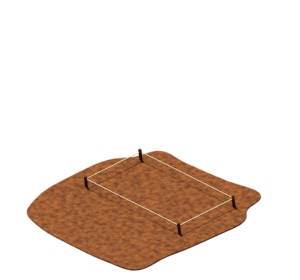
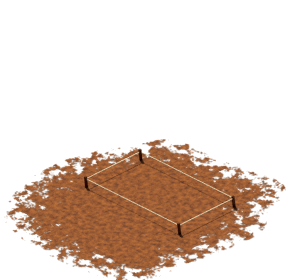
Trodden earth fades into the grass instead of ending in a hard edge
The building pad is now a solid core with a fringe whose alpha comes
from a per-vertex edge attribute broken up by blotch and grain noise, so
the earth frays into the game's grass in clumps, as in Settlers 4.

diff --git a/art/blender/lib.py b/art/blender/lib.py
@@ -434,9 +434,11 @@ def _finish(obj, mat, bevel=0.0, smooth=False):
     return obj
 
 
-def pad(loc, hx, hy, mat, verts=96, jitter=0.12, seed=1, thickness=0.012, power=4.0):
-    """A flat, ragged, squarish patch on the ground (half sizes `hx`, `hy`): the trodden earth around
-    buildings. A superellipse with a jittered edge."""
+def pad(loc, hx, hy, mat, verts=96, jitter=0.12, seed=1, core=0.7, reach=1.3, grain=38.0):
+    """A ragged, squarish patch of trodden earth (half sizes `hx`, `hy`; a superellipse with a wobbly
+    edge) that fades into the grass the way Settlers 4 ground does: solid inside `core`, then the
+    earth breaks up in a grainy, noisy fringe out to `reach` (alpha in the sprite, so the game's grass
+    shows through). The material gets the alpha; it must be the pad's own."""
     import random
 
     rnd = random.Random(seed)
@@ -444,22 +446,64 @@ def pad(loc, hx, hy, mat, verts=96, jitter=0.12, seed=1, thickness=0.012, power=
     # A smooth wobble (a few low-frequency waves), not per-vertex noise.
     waves = [(rnd.randint(2, 7), rnd.uniform(0, math.tau), rnd.uniform(0.3, 1.0)) for _ in range(4)]
     norm = sum(w[2] for w in waves)
-    pts = []
-    for i in range(verts):
-        a = i / verts * math.tau
-        c, s_ = math.cos(a), math.sin(a)
-        k = 1 + jitter * sum(amp * math.sin(f * a + ph) for f, ph, amp in waves) / norm
-        x = math.copysign(abs(c) ** (2 / power), c) * hx * k
-        y = math.copysign(abs(s_) ** (2 / power), s_) * hy * k
-        pts.append((cx + x, cy + y, cz))
+
+    def ring(scale):
+        pts = []
+        for i in range(verts):
+            a = i / verts * math.tau
+            c, s_ = math.cos(a), math.sin(a)
+            k = scale * (1 + jitter * sum(amp * math.sin(f * a + ph) for f, ph, amp in waves) / norm)
+            x = math.copysign(abs(c) ** 0.7, c) * hx * k
+            y = math.copysign(abs(s_) ** 0.7, s_) * hy * k
+            pts.append((cx + x, cy + y, cz + 0.003))
+        return pts
+
+    inner, outer = ring(core), ring(reach)
+    vs = [(cx, cy, cz + 0.003)] + inner + outer
+    faces = [(0, 1 + i, 1 + (i + 1) % verts) for i in range(verts)]
+    faces += [(1 + i, 1 + verts + i, 1 + verts + (i + 1) % verts, 1 + (i + 1) % verts) for i in range(verts)]
     mesh = bpy.data.meshes.new('pad')
-    mesh.from_pydata([(cx, cy, cz)] + pts, [], [(0, i + 1, (i + 1) % verts + 1) for i in range(verts)])
+    mesh.from_pydata(vs, [], faces)
+    edge = mesh.attributes.new('edge', 'FLOAT', 'POINT')
+    edge.data.foreach_set('value', [1.0] * (1 + verts) + [0.0] * verts)
     obj = bpy.data.objects.new('pad', mesh)
     bpy.context.scene.collection.objects.link(obj)
     obj.data.materials.append(mat)
-    mod = obj.modifiers.new('Solid', 'SOLIDIFY')
-    mod.thickness = thickness
-    mod.offset = 1
+    # Alpha: the radial fade, broken up by fine noise so the border is grainy, not a line.
+    nodes, links = mat.node_tree.nodes, mat.node_tree.links
+    bsdf = nodes['Principled BSDF']
+    attr = nodes.new('ShaderNodeAttribute')
+    attr.attribute_name = 'edge'
+    coord = nodes.new('ShaderNodeTexCoord')
+    noise = nodes.new('ShaderNodeTexNoise')
+    noise.inputs['Scale'].default_value = grain
+    noise.inputs['Detail'].default_value = 6
+    links.new(coord.outputs['Object'], noise.inputs['Vector'])
+    blotch = nodes.new('ShaderNodeTexNoise')
+    blotch.inputs['Scale'].default_value = grain / 5
+    blotch.inputs['Detail'].default_value = 4
+    links.new(coord.outputs['Object'], blotch.inputs['Vector'])
+    # v = edge + blotches (±0.55) + grain (±0.3): the threshold wanders in and out as clumps.
+    def spread(sock, half):
+        r = nodes.new('ShaderNodeMapRange')
+        r.inputs['From Min'].default_value = 0.3
+        r.inputs['From Max'].default_value = 0.7
+        r.inputs['To Min'].default_value = -half
+        r.inputs['To Max'].default_value = half
+        links.new(sock, r.inputs['Value'])
+        return r.outputs['Result']
+
+    add1 = nodes.new('ShaderNodeMath')
+    links.new(attr.outputs['Fac'], add1.inputs[0])
+    links.new(spread(blotch.outputs['Fac'], 0.55), add1.inputs[1])
+    add2 = nodes.new('ShaderNodeMath')
+    links.new(add1.outputs['Value'], add2.inputs[0])
+    links.new(spread(noise.outputs['Fac'], 0.3), add2.inputs[1])
+    alpha = nodes.new('ShaderNodeMapRange')
+    alpha.inputs['From Min'].default_value = 0.22
+    alpha.inputs['From Max'].default_value = 0.36
+    links.new(add2.outputs['Value'], alpha.inputs['Value'])
+    links.new(alpha.outputs['Result'], bsdf.inputs['Alpha'])
     return obj
 
 

diff --git a/CLAUDE.md b/CLAUDE.md
@@ -84,7 +84,7 @@ Three layers with one-way dependencies: `ui → render → sim`, plus `src/audio
 - **Culling by chunk** (`CHUNK` = 16 tiles): ground, territory overlay and static objects (trees, rocks, deposits, buildings) are registered per chunk via `addStatic`/`removeStatic` and sit in the scene only while their chunk intersects the camera's `viewRect`; settlers join `objects` only while on screen. Per-frame sorting and drawing therefore follow the screen, not the map. New world objects must go through `addStatic` rather than `objects.addChild`.
 - **Lazy chunks** (what makes 512×512 start fast): `buildGround` only records heights; a chunk's ground mesh, boulders and territory are built by `ensureChunk` the first time it becomes visible (`chunkReady`), at most `CHUNK_BUILDS_PER_FRAME` per frame so a zoom-out never hitches. Tile objects (trees, deposits, fields) are synced only for visible chunks — `syncChangedTiles` leaves a hidden chunk's version stale and catches up when it scrolls in; territory for unbuilt chunks is deferred via `territoryPending`. Anything per-chunk you add must be built in `ensureChunk` and tolerate a chunk that was never built.
 - All art is procedural: painters in `sprites.ts` draw with Canvas 2D, and `SpriteAtlas` (`atlas.ts`) packs them into 2× resolution canvas pages (a new page starts when one fills; the last page is cut to the rows it uses) with `defaultAnchor` set per frame. Most buildings are described by a `Style` in `STYLES` (walls, roof, floors, decorations like chimney/well/pen) painted by `paintStyled`; only special shapes (castle, mill, tower…) have hand-written painters. Fields are flat decals added to their chunk's ground container. Building painters draw around the **footprint center as origin** and use the `P(dx, dy, z)` helper (tile-unit offsets plus pixel height); their canvas size and anchor live in `BUILDING_CANVAS`. Construction progress is shown by cropping the building texture from the top (`bottomPart`). To add a sprite, write a painter and register it in the `SpriteAtlas` constructor.
-- **3D sprite pilot** (`?art=3d`): `art/blender/build.py` (helpers in `lib.py`) builds models with bpy and renders them with an orthographic camera matching `iso.ts` (rot 60°/0/45°, world X = tile x, world Y = −tile y, `PX_PER_UNIT` logical px per tile unit, 2× resolution, Cycles, shadow catcher on a transparent background, palette written in sRGB and converted by `lib.lin`) into `public/art/3d`; run `npm run art:render [-- names]` (Blender 5.x on PATH). Each sprite keeps the size/anchor convention of the procedural sprite it replaces (`ART3D_SPRITES` in `art3d.ts` must match `SINGLE` in `build.py`). `main.ts` loads them (`loadArt3d`) and `SpriteAtlas` re-registers them under the procedural keys (`building:woodcutter`, `tree:*`, `deposit:*`, `ware:log`); the carrier is a sheet `c3d:<dir>:<column>` in `DIRS` order (no mirroring; walk frames, stand, then the same carrying) with `carryAt`/`carryBehind` from `carrier.json`, used by `syncSettlers` instead of the layered figure. Read hand positions from the evaluated depsgraph (`hand_point`), and call `view_layer.update()` before parenting parts to pivots, or offsets double. The look follows Settlers 4 (reference: in-game shots at settlers4-hd.com, kept out of the repo): `mat_stones` (Voronoi fieldstone), `mat_tiles` (terracotta), `mat_grain` (wood, thatch, bark, earth), `mat_leaves`, `apply_ao` (base colour × AO in every material) and `clean_alpha` post-processing (saturation, contrast, unsharp); buildings stand on a trodden-earth `pad`; `transform_apply` must keep location (`location=False`), or origins jump to the world origin. **Ground textures** (`art/textures/ground.py`, `npm run art:ground`, runs in Blender for numpy): a texture periodic over `PERIOD`×`PERIOD` tiles, sliced into diamonds exactly as `quadOf` samples them; the atlas registers them as `ground:<kind>:<v>` (`groundPeriod`), the renderer picks variant (x mod p) + p·(y mod p) so tiles join seamlessly, and transition overlays keep the procedural ragged mask filled with the texture.
+- **3D sprite pilot** (`?art=3d`): `art/blender/build.py` (helpers in `lib.py`) builds models with bpy and renders them with an orthographic camera matching `iso.ts` (rot 60°/0/45°, world X = tile x, world Y = −tile y, `PX_PER_UNIT` logical px per tile unit, 2× resolution, Cycles, shadow catcher on a transparent background, palette written in sRGB and converted by `lib.lin`) into `public/art/3d`; run `npm run art:render [-- names]` (Blender 5.x on PATH). Each sprite keeps the size/anchor convention of the procedural sprite it replaces (`ART3D_SPRITES` in `art3d.ts` must match `SINGLE` in `build.py`). `main.ts` loads them (`loadArt3d`) and `SpriteAtlas` re-registers them under the procedural keys (`building:woodcutter`, `tree:*`, `deposit:*`, `ware:log`); the carrier is a sheet `c3d:<dir>:<column>` in `DIRS` order (no mirroring; walk frames, stand, then the same carrying) with `carryAt`/`carryBehind` from `carrier.json`, used by `syncSettlers` instead of the layered figure. Read hand positions from the evaluated depsgraph (`hand_point`), and call `view_layer.update()` before parenting parts to pivots, or offsets double. The look follows Settlers 4 (reference: in-game shots at settlers4-hd.com, kept out of the repo): `mat_stones` (Voronoi fieldstone), `mat_tiles` (terracotta), `mat_grain` (wood, thatch, bark, earth), `mat_leaves`, `apply_ao` (base colour × AO in every material) and `clean_alpha` post-processing (saturation, contrast, unsharp); buildings stand on a trodden-earth `pad` (solid core, then a noisy alpha fringe from a per-vertex `edge` attribute plus two noises, so the earth breaks up into the game's grass instead of ending in a line); `transform_apply` must keep location (`location=False`), or origins jump to the world origin. **Ground textures** (`art/textures/ground.py`, `npm run art:ground`, runs in Blender for numpy): a texture periodic over `PERIOD`×`PERIOD` tiles, sliced into diamonds exactly as `quadOf` samples them; the atlas registers them as `ground:<kind>:<v>` (`groundPeriod`), the renderer picks variant (x mod p) + p·(y mod p) so tiles join seamlessly, and transition overlays keep the procedural ragged mask filled with the texture.
 - Player colours live in `PLAYER_COLORS` (`sprites.ts`); the only per-player atlas variants are `flag:<player>` (fighters wear their owner's colour as a tint, see below). A fighter's level is drawn as a `chevrons:<level>` sprite above the head, and arrows (`World.shots`) as arcs in the `shots` Graphics layer above the objects. Territory chunks draw every player's border in its colour and dim land that is not the local player's. Settler views whose settler died are destroyed on the next sync; building flags follow ownership changes, and so do roof banners (`BANNERS` in `sprites.ts`: where the `flag:<owner>` sprite sits on every military building — building painters must not paint owner colours themselves). Duelling pairs are drawn at `FIGHT_SPOTS` offsets so simultaneous fights at one door stay apart.
 - **Fog rendering** (local player, off with `?fog=off`): a `fog` container above `objects` and the arrow layer holds one `Graphics` per chunk — black diamonds over unexplored tiles, a 0.42 black veil over explored tiles out of sight. `syncFog` (every 150 ms) compares per-tile states only in visible chunks and redraws changed chunks; it also hides static objects standing on unexplored tiles (and `addStatic` hides new ones there). Other players' settlers are drawn only where the local player has sight; the minimap and the building info panel follow the same rules, and buildings under unexplored fog cannot be selected.
 - **Settler animation** (`anim.ts` pure helpers, `animConfig.ts` data, `settlerArt.ts` painters): a settler is a container of layered sprites — `body` (shadow, legs, far arm), `tunic` and `hat` (painted grey, tinted per profession from `styleOf(kind)` or with the owner's colour for `fighter` styles), `head`, the near `arm` with its tool, the carried `ware` and the rank badge. Five directions are painted (`PAINTED_DIR`: E, SE, S, NE, N); W, SW and NW mirror them (`MIRRORED`, `root.scale.x = -1`); facing away (`FACES_AWAY`) the arm and goods go behind the body. Direction comes from the tick velocity (`dirFromTileVelocity`), the opponent or the work target (`workTarget`); walk frames from the distance walked (`walkFrame`, no foot sliding), work frames from time with a per-id offset (`workFrame`), idle settlers glance around (`idleDir`). Atlas keys: `sb:<pd>:<frame>`, `st:<pd>`, `shd:<pd>`, `sht:<hat>:<pd>`, `sa:hold:<tool>:<pd>:<frame>`, `sa:work:<action>:<pd>:<frame>`; identical arm poses are painted once and aliased. Textures for each layer are resolved once (`SpriteAtlas.settlerTextures()`), so the per-frame loop does no string lookups. **To add a profession look:** a `STYLES` entry in `animConfig.ts` (tunic, hat colour and `HatStyle`, `work` action, held tool). **To add a work animation:** an `ACTIONS` entry (tool, four arm angles in turns of π, loop length, optional sound on a frame) — the atlas paints it automatically; map tasks to it in `PLANT_ACTION`/`GATHER_ACTION` if it depends on what is gathered or planted. A new tool shape needs a case in `paintArm`.
